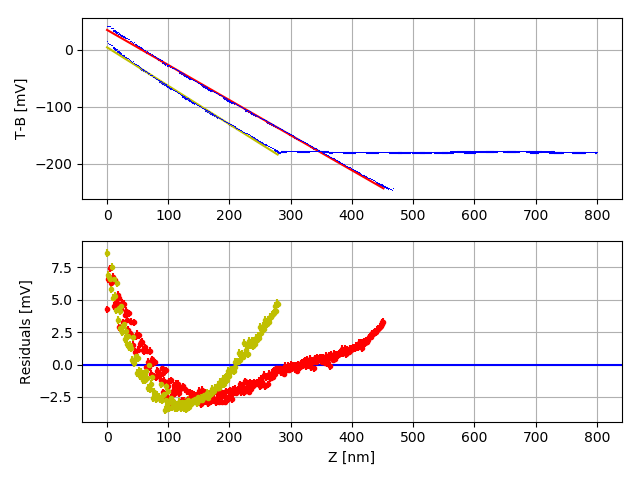
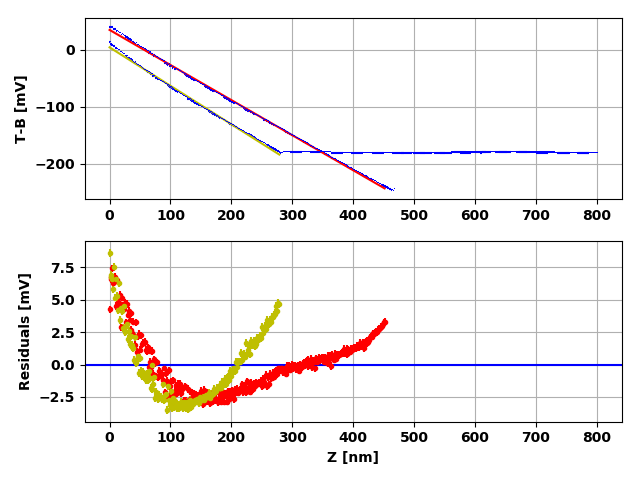
started corrections

diff --git a/M1/Protokoll/AFM.tex b/M1/Protokoll/AFM.tex
@@ -92,7 +92,7 @@ The goal of the measurement is to determine the force constants of the cantileve
 
 \section{Measurement}
 \subsection{Contact Mode}
-In contact Mode the topology of a given sample is measured. In order to determine the optimal scan configuration an area is scanned for multiple different configurations. The optimal settings are listed in table \ref{tab:contact_settings}. With these settings the L-R, T-B and topology data of the sample is measured.\\
+In contact mode the topology of a given sample is measured. In order to determine the optimal scan configuration an area is scanned for multiple different configurations. The optimal settings are listed in table \ref{tab:contact_settings}. With these settings the L-R, T-B and topology data of the sample is measured.\\
 In a second part the force vs. distance curve (also referred to as snap-in curve) is measured. This is done by measuring the T-B data dependent on the distance. The cantilever starts in contact with the sample, is then moved \SI{800}{nm} away from the sample and then moved back to the original position.
 \begin{table}[h]
 \centering
@@ -108,7 +108,7 @@ $K_i$ & $K_p$ & area & speed[lines/s] & setpoint\\
 \end{table}
 
 \subsection{Tapping Mode}
-In a first step the resonance frequency of the cantilever is determined by sweeping the frequency and measuring the amplitude, because knowledge of this frequency is necessary for the other measurements. The resonance frequency turns out to be \SI{263.6 \pm 0.1}{kHz}. In order to avoid full resonance a frequency of \SI{263.8}{kHz} is used for the following measurements.\\
+In a first step the resonance frequency of the cantilever is determined by sweeping the frequency and measuring the amplitude, because knowledge of this frequency is necessary for the other measurements. In order to avoid full resonance a frequency of \SI{263.8}{kHz}, which is slightly off the resonance frequency, is used for the following measurements.\\
 Next the amplitude, phase and topology of a different sample is measured in a similar process as the topology measurement in the contact mode. The optimal setting are given in table \ref{tab:tapping_settings}.\\
 As a final measurement in this mode the cantilever amplitude is measured dependent on the distance between sample and tip in a similar procedure as the force-distance measurement in the contact mode. 
 \begin{table}[h]
@@ -219,8 +219,9 @@ k_z^{contact} = 0.75297 \pm 0.08560
 
 \begin{figure}
 \centering
-\includegraphics[scale=0.5]{Bilder/Contact_Mode/Snap_in_curve.PNG}
-\caption{Snap-in curve measured in contact mode.}
+\includegraphics[scale=0.5]{Bilder/Contact_Mode/Snap_in_curve_marked.PNG}
+\includegraphics[scale=0.5]{Bilder/Contact_Mode/Snap_in_curve_fit.PNG}
+\caption{Snap-in curve measured in contact mode. The upper plot shows the measurement with marked snap-in and snap-off and the lower shows the fits to the linear regimes.}
 \label{fig:Contact_snap_in}
 \end{figure}
 
@@ -292,19 +293,33 @@ k_z^{tapping} = 0.695 \pm 0.074
 
 \begin{figure}
 \centering
-\includegraphics[scale=0.5]{Bilder/Tapping_Mode/Snap_in_curve.PNG}
+%\includegraphics[scale=0.5]{Bilder/Tapping_Mode/Snap_in_curve.PNG}
+\includegraphics[scale=0.5]{Bilder/Tapping_Mode/Snap_in_curve_fit.PNG}
 \caption{Measured amplitude plotted against the sample-tip distance.}
 \label{fig:Tapping_snap_in}
 \end{figure}
 
-Fig. \ref{fig:Tapping_snap_in} shows the measured amplitude plotted against the sample-tip distance with the setup used in the tapping mode. The linear fit yields the averaged slope for the linear regime:
+Fig. \ref{fig:Tapping_snap_in} shows the measured amplitude plotted against the sample-tip distance with the setup used in the tapping mode. In the linear regime the oszillation amplitude decreases as the tip approaches the sample. This is due to the tip hitting the sample at its lower turning point. \\
+The linear fit yields the averaged slope for the linear regime:
 \begin{equation*} 
 |\alpha| = \SI{1.6330 \pm 0.0057}{V \per \mu m}
 \end{equation*}
 With this one calculates the force-calibration constant as:
 \begin{equation*}
 k_F^{tapping} = (1.70 \pm 0.18 \, (stat.) \, _{+ 0.49} ^{- 0.25} \, (sys.)) \times 10^{-5} \si{N \per mV}
-\end{equation*} \\
+\end{equation*} 
+
+The free oszillation amplitude is given by the plateau in fig. \ref{fig:Tapping_snap_in}. To determine the amplitude value of this plateau a linear fit to it is performed. As the slope of this fit matches with zero in a range of $2 \sigma$, one can use the y axis section as value for the plateau:
+\begin{equation*}
+b = \SI{4.686 \pm 0.019}{mV}
+\end{equation*}
+Given this value the free oszillation amplitude is determined by:
+\begin{equation*}
+\begin{aligned}
+A_{free} = \dfrac{b}{\alpha}\\
+A_{free} = \SI{2.87 \pm 0.10}{nm}
+\end{aligned}
+\end{equation*}
 
 \subsection{Magnetic Microscopy}
 

diff --git a/M1/Python/Tapping_snap_curve.py b/M1/Python/Tapping_snap_curve.py
@@ -7,11 +7,11 @@ import csv
 
 path = '../Daten/Tapping mode/amplitude_nah.csv'
 data = np.genfromtxt(path, delimiter = ';', skip_header = 1)
-z, amp = data[:,1] * 10**(-7), data[:,3] * 10**(-7)
-sig_z, sig_amp = np.full(len(z), (z[1] - z[0])/np.sqrt(12)), np.full(len(z), np.std(amp[200:300]))
+z, amp = data[:,1] * 10**(-7), data[:,3] * 10**(-4)
+sig_z, sig_amp = np.full(len(z), (z[1] - z[0])/np.sqrt(12)), np.full(len(z), np.std(amp[200:300])) #* 10**(-3)
 
 fig = plt.figure()
-plt.errorbar(z, amp * 10**3, xerr = sig_z * 10**3, yerr = sig_amp, fmt = '.')
+plt.errorbar(z, amp, xerr = sig_z * 10**3, yerr = sig_amp, fmt = '.')
 plt.grid()
 plt.xlabel('Z [nm]')
 plt.ylabel('Amplitude [mV]')
@@ -41,3 +41,21 @@ sig_alpha_m = alpha * np.sqrt((sig_k_fit / k_fit)**2 + (sig_k_real_m/k_real)**2)
 print('Umrechenfaktor:')
 print('alpha = (' + str(alpha) + ' + ' + str(sig_alpha_p) + ' - ' + str(sig_alpha_m) + ' (stat.) +/- ' + str(alpha * sig_k_z/k_z) + ' (sys.)) N/mV')
 
+
+#free oszillation amplitude (plateau)
+start_index, end_index = [280, 480], [460, 740]
+labels = ['Z [nm]', 'Amplitude [mV]', 'Residuals [mV]', '']
+save_path = '../Protokoll/Bilder/Tapping_Mode/Free_Oszillation_Amplitude.png'
+out = STMM.multi_lin_reg_one_plot(z, amp, sig_z, sig_amp, start_index, end_index, labels, save_path)
+
+print('a_1 = (' + str(out[0][0]) + ' +/- ' + str(out[0][1]) + ') mV/nm') #mV/nm
+print('a_2 = (' + str(out[1][0]) + ' +/- ' + str(out[1][1]) + ') mV/nm')
+
+b_fit, sig_b_fit = AM.gew_mittelwert(np.array([out[0][2], out[1][2]]), np.array([out[0][3], out[1][3]]))[0], np.max(AM.gew_mittelwert(np.array([out[0][2], out[1][2]]), np.array([out[0][3], out[1][3]]))[1:])
+foa = b_fit / k_fit
+sig_foa = foa * np.sqrt((sig_b_fit/b_fit)**2 + (sig_k_fit/k_fit)**2)
+
+print('b = (' + str(b_fit) + ' +/- ' + str(sig_b_fit) + ') mV')
+
+print('Free oszillation amplitude:')
+print('amplitude = (' + str(foa) + ' +/- ' + str(sig_foa) + ') nm')

diff --git a/M1/Python/Contact_snap_curve.py b/M1/Python/Contact_snap_curve.py
@@ -10,10 +10,15 @@ data = np.array(AM.genfromcsv(path, skipheader=1)) * 10**(-6)
 
 dz, T_B = data[:,1], data[:,3]
 
+font = {'family' : 'normal',
+            'weight' : 'bold',
+            'size'   : 10}
+
 fig = plt.figure()
+plt.rc('font', **font)
 plt.plot(dz, T_B)
-plt.xlabel('dz [nm]')
-plt.ylabel('T-B [mV]')
+plt.xlabel('dz [nm]', **font)
+plt.ylabel('T-B [mV]', **font)
 #plt.title('Snap-In Curve')
 plt.grid()
 plt.tight_layout()
@@ -44,3 +49,23 @@ sig_alpha_m = alpha * np.sqrt((sig_k_fit / k_fit)**2 + (sig_k_real_m/k_real)**2)
 print('Umrechenfaktor:')
 print('alpha = (' + str(alpha) + ' + ' + str(sig_alpha_p) + ' - ' + str(sig_alpha_m) + ' (stat.) +/- ' + str(alpha * sig_k_z/k_z) + ' (sys.)) N/mV')
 
+#adhesion
+save_path = '../Protokoll/Bilder/Contact_Mode/adhesion_and_load_force_fit.png' #'test.png'
+out = STMM.multi_lin_reg_one_plot(dz, T_B, sig_x, sig_y, [300], [550], labels, save_path)
+
+adhesion = (out[0][2] - min(T_B)) * alpha
+sig_theta, theta = np.sqrt(out[0][3]**2 + 0.01**2), out[0][2] - min(T_B)
+sig_adhesion = adhesion * np.abs(sig_theta/theta)
+sig_adhesion_m = adhesion * np.abs(sig_alpha_m/alpha)
+sig_adhesion_p = adhesion * np.abs(sig_alpha_p/alpha)
+print('Adhesion force:')
+print('F_a = (' + str(adhesion) + ' +/- ' + str(sig_adhesion) + ' (stat.) + ' + str(sig_adhesion_p) + ' - ' + str(sig_adhesion_m) + ' (sys.)) N')
+
+#load force
+index = np.where(dz <= 1.0)[0]
+load = alpha * np.abs(T_B[index[0]] - T_B[index[1]])
+sig_load = alpha * np.sqrt((T_B[index[0]+1] - T_B[index[0]])**2 /12 + (T_B[index[1]-1] - T_B[index[1]])**2 /12)
+sig_load_m = load * np.abs(sig_alpha_m/alpha)
+sig_load_p = load * np.abs(sig_alpha_p/alpha)
+print('Load force:')
+print('F_l = (' + str(load) + ' +/- ' + str(sig_load) + ' (stat.) + ' + str(sig_load_p) + ' - ' + str(sig_load_m) + ' (sys.)) N')

diff --git a/M1/Python/STM_Methoden.py b/M1/Python/STM_Methoden.py
@@ -201,16 +201,21 @@ def multi_lin_reg_one_plot(x, y, sig_x, sig_y, start_index, end_index, labels, s
     color = ['r', 'y', 'g', 'm', 'c', 'k']
     lin = lambda x, a, b: a*x+b
 
+    font = {'family' : 'normal',
+            'weight' : 'bold',
+            'size'   : 10}
+
     out = []
     for i in range(len(start_index)):
         #out.append(p.lineare_regression_xy(x[start_index[i]:end_index[i]], y[start_index[i]:end_index[i]], sig_x[start_index[i]:end_index[i]], sig_y[start_index[i]:end_index[i]]))
         out.append(p.lineare_regression(x[start_index[i]:end_index[i]], y[start_index[i]:end_index[i]], sig_y[start_index[i]:end_index[i]]))
 
     fig = plt.figure()
+    plt.rc('font', **font)
     ax1=plt.subplot(211)
     plt.grid()
-    plt.ylabel(labels[1])
-    plt.title(labels[3])
+    plt.ylabel(labels[1], **font)
+    plt.title(labels[3], **font)
     plt.errorbar(x, y, xerr = sig_x, yerr=sig_y, fmt=',', color = 'b')
     #plt.errorbar(x, y, xerr = sig_x, yerr=sig_y, fmt='.', color = 'b')
     for i in range(len(start_index)):
@@ -226,8 +231,8 @@ def multi_lin_reg_one_plot(x, y, sig_x, sig_y, start_index, end_index, labels, s
         plt.errorbar(x[start_index[i]:end_index[i]], H, yerr=H_err, fmt='.', color = color[i])
     plt.axhline(0, color = 'b')
     plt.grid()
-    plt.xlabel(labels[0])
-    plt.ylabel(labels[2])
+    plt.xlabel(labels[0], **font)
+    plt.ylabel(labels[2], **font)
     plt.tight_layout()
     plt.savefig(save_path)
     plt.close(fig)
